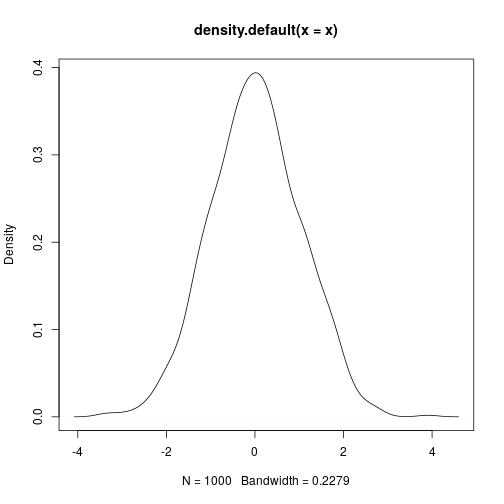
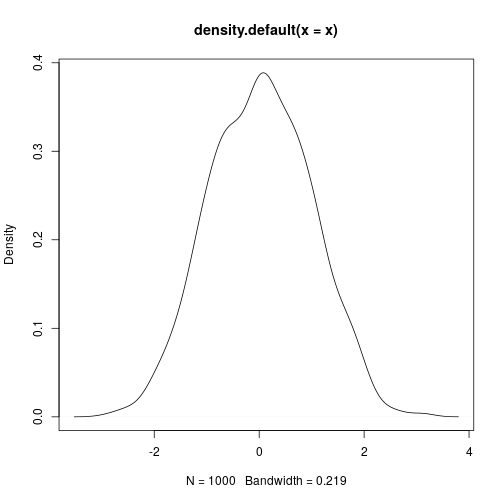
updating exercises

diff --git a/_episodes/02-literate-programming.md b/_episodes/02-literate-programming.md
@@ -245,7 +245,7 @@ plot(density(x))
 head(x)
 </code></pre>
 
-<pre><code>## [1] -1.65595149 -0.04217995 -0.58489357  0.33215404  0.33348650 -0.31246516
+<pre><code>## [1]  0.2541665  0.2746722 -1.5741258  0.4530805  1.0870993 -0.3046895
 </code></pre>
 
 <p><code>knitr</code> offers a lot of control over representing different
@@ -254,7 +254,7 @@ computed on the fly.</p>
 
 <p>The mean \(\bar{x} = \frac{1}{n} \sum_{i=1}^{n} x_{i}\) of the
 1000 random variates we generated is
--0.039.</p>
+-0.074.</p>
 
 <p>This figure is computed on-the-fly as well. No more
 copy-paste, including for figures:</p>
@@ -262,7 +262,7 @@ copy-paste, including for figures:</p>
 <pre><code class="r">plot(density(x))
 </code></pre>
 
[2 lines of base64/hex data omitted]
 
 
 

diff --git a/_episodes/04-bibliographic-citations.md b/_episodes/04-bibliographic-citations.md
@@ -162,7 +162,9 @@ nocite: |
 
 >## Challenge 2 - Multi-citations and page numbers
 > 1. Open the `decoupling-dns.bib` file and pick 3 citations to reference together in the text. Tip: multiple authors are separated by a `;`.
-> 2. Add page numbers for the citation and `Knit`. Page numbers follow the citation key with a comma.
+> 2. Add page numbers for the citation. Page numbers follow the citation key with a comma.
+> 1. Put a header at the bottom of your document for the bibliography `## References` or something else.
+> 3. Knit
 {: .challenge}
 
 

diff --git a/_episodes_rmd/rmd_example.md b/_episodes_rmd/rmd_example.md
@@ -7,7 +7,7 @@ head(x)
 ```
 
 ```
-## [1] -1.65595149 -0.04217995 -0.58489357  0.33215404  0.33348650 -0.31246516
+## [1]  0.2541665  0.2746722 -1.5741258  0.4530805  1.0870993 -0.3046895
 ```
 
 `knitr` offers a lot of control over representing different
@@ -16,7 +16,7 @@ computed on the fly.
 
 The mean $\bar{x} = \frac{1}{n} \sum_{i=1}^{n} x_{i}$ of the
 1000 random variates we generated is
--0.039.
+-0.074.
 
 This figure is computed on-the-fly as well. No more
 copy-paste, including for figures:

diff --git a/_episodes/rmd_example.md b/_episodes/rmd_example.md
@@ -7,7 +7,7 @@ head(x)
 ```
 
 ```
-## [1]  0.4612714  0.4212846 -0.7780861  1.8116113  0.2671053  0.2130036
+## [1]  1.0187167 -0.4427961 -1.6449429 -0.8142667 -1.0063649 -0.9940684
 ```
 
 `knitr` offers a lot of control over representing different
@@ -16,7 +16,7 @@ computed on the fly.
 
 The mean $\bar{x} = \frac{1}{n} \sum_{i=1}^{n} x_{i}$ of the
 1000 random variates we generated is
-0.021.
+0.033.
 
 This figure is computed on-the-fly as well. No more
 copy-paste, including for figures:
